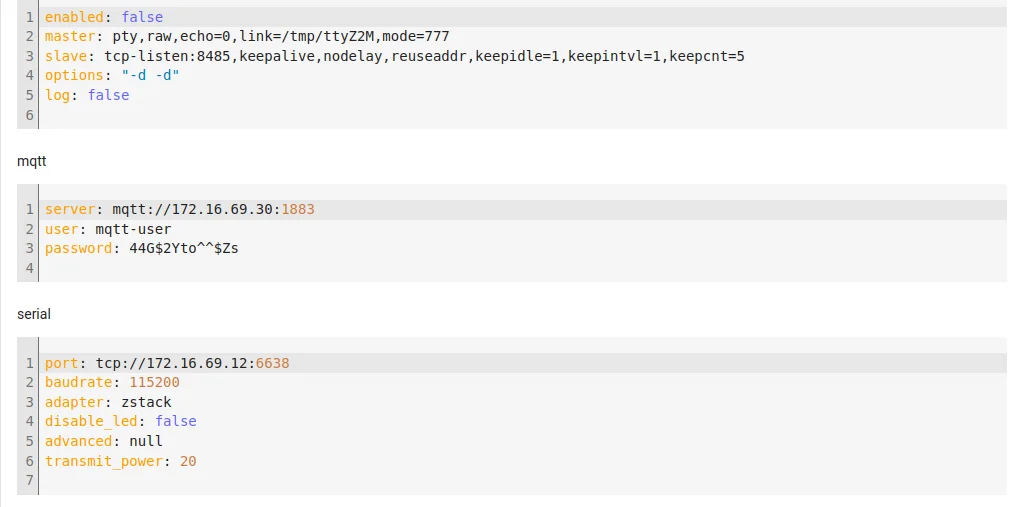
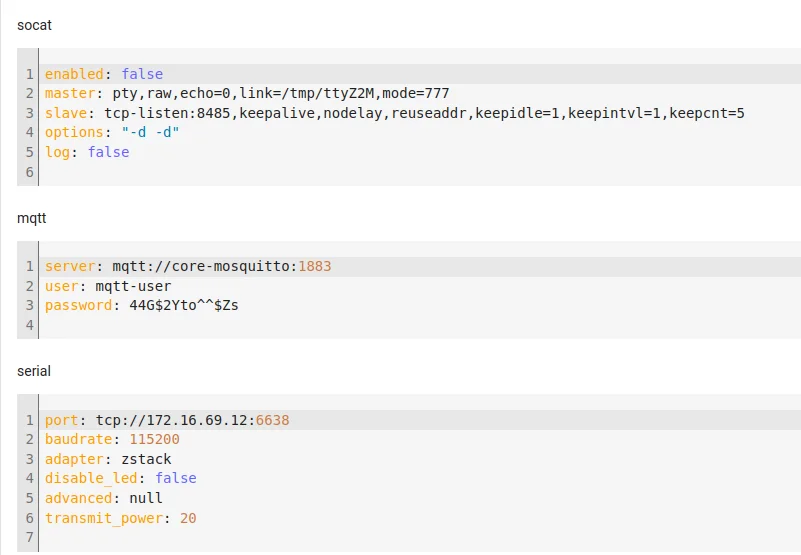
Updated the Installing Zigbee2MQTT page

Changed region(s): [[0.0, 0.0, 0.9363, 0.3254], [0.0, 0.3846, 0.437, 1.0]]

diff --git a/_tabs/about.md b/_tabs/about.md
@@ -26,7 +26,13 @@ I started running in 2004 after I stopped smoking, my first full marathon was Se
 
 This photo was taken in September 2009 when I ran the Berlin Marathon for a second time. I'm the guy on the left wearing my [St Andrew's Cross](https://en.wikipedia.org/wiki/Flag_of_Scotland) vest.
 
-![Belin Marathon](../assets/img/about/Berlin_Marathon.webp)
+![Berlin Marathon](../assets/img/about/Berlin_Marathon.webp)
+
+I was fortunate enough to get into the London Marathon in 2010, after I got my place, I decided to run for charity and picked [Marie Curie](https://www.mariecurie.org.uk/), as they were there during a difficult time for my family. 
+
+Below is a photo of my finishing certificate, something that you don't often see these days.
+
+![Finishing Certificate](../assets/img/about/London_Marathon_Certificate.jpg)
 
 ### IT Technologies
 

diff --git a/_posts/2024-07-14-Installing-Zigbee2MQTT.md b/_posts/2024-07-14-Installing-Zigbee2MQTT.md
@@ -47,7 +47,7 @@ socat:
   options: "-d -d"
   log: false
 mqtt:
-  server: mqtt://172.16.69.30:1883
+  server: mqtt://core-mosquitto:1883
   user: mqtt-user
   password: 44G$2Yto^^$Zs
 serial:
